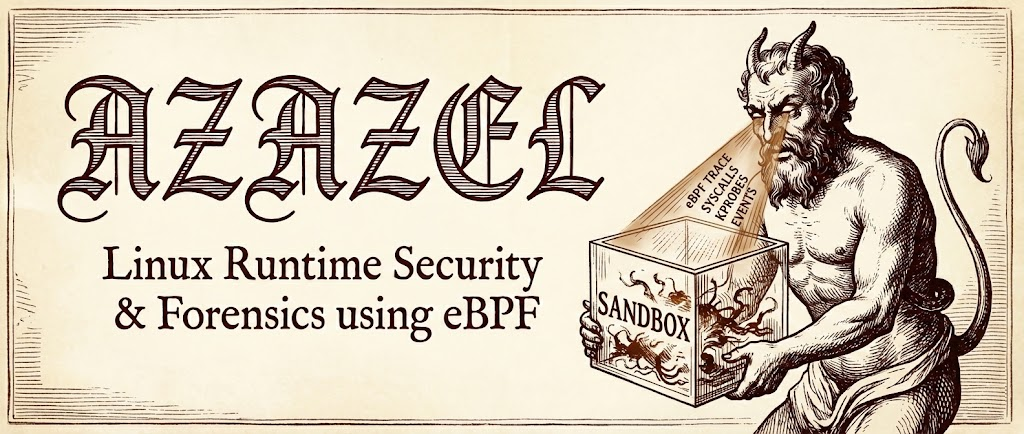
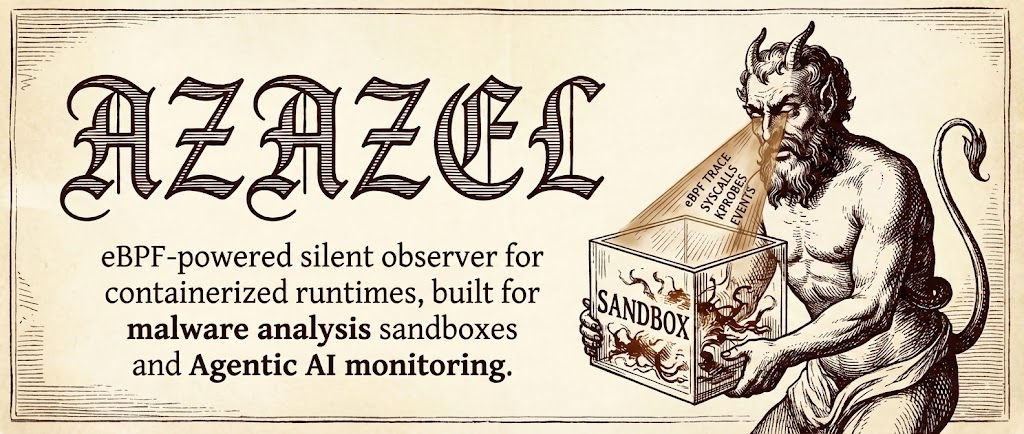
Feat: Improve README.md

diff --git a/README.md b/README.md
@@ -9,12 +9,18 @@
 
 # Azazel
 
+*eBPF-powered silent observer for containerized runtimes, built for malware analysis sandboxes and Agentic AI monitoring.*
+
 ****
 
-A lightweight eBPF-based runtime security tracer purpose-built for **malware analysis sandboxes**. Drop a sample into an isolated container, and Azazel captures every syscall, file touch, network connection, and suspicious behavior — then hands you a clean JSON stream of everything that happened.
+Azazel attaches to any running Docker container and captures every syscall, file access, network connection, and process event — in real time, with zero overhead on the target. No code injection. No agents inside the container. No restarts.
 
-Designed from scratch for sandbox forensics rather than general-purpose runtime security.
+**Two use cases, one tool:**
 
+- **Malware analysis**: drop a sample into an isolated container, let Azazel watch every move it makes, get a full forensic report
+- **Agentic AI monitoring**: attach to any AI agent container and observe what it *actually* does at runtime, not what it claims to do: which files it touches, which processes it spawns, which endpoints it calls
+
+In both cases, the target never knows it's being observed.
 ---
 
 ## Architecture
@@ -30,14 +36,16 @@ Designed from scratch for sandbox forensics rather than general-purpose runtime 
 | **Network** | `net_connect`, `net_bind`, `net_listen`, `net_accept`, `net_sendto`, `net_dns` | IPv4/IPv6 addresses, ports, DNS detection via kprobe on `udp_sendmsg` |
 | **Security** | `mmap_exec`, `ptrace`, `module_load` | W+X memory mappings, process injection attempts, kernel module loading |
 
-**19 hook points** total — tracepoints on syscall entry + a kprobe for DNS detection.
+**19 hook points** total tracepoints on syscall entry and kprobe for DNS detection.
 
 ---
 
 ## Why Azazel?
 
-- **Sandbox-first** — built to trace isolated containers, with cgroup-based filtering to capture only the malware you're analyzing
-- **Zero dependencies at runtime** — single static Go binary, no agents or daemons
+Whether you're analyzing malware or an AI agent, the question is the same: *what is this thing really doing inside that container?*
+
+- **Attach-first** — latches onto a running container via cgroup-based filtering, no restarts, no instrumentation inside the target
+- **Zero footprint** — single static Go binary runs outside the container; the target never knows it's being observed
 - **CO-RE** — Compile Once, Run Everywhere via BTF and `vmlinux.h`, works across kernel versions without recompilation
 - **JSON-native** — NDJSON output (one event per line) ready for `jq`, Elasticsearch, Splunk, or your own pipeline
 - **Built-in heuristics** — automatic alerts for exec from `/tmp`, sensitive file access (`/etc/shadow`, `/proc/self/mem`), ptrace, W+X mmap, and kernel module loading
@@ -105,6 +113,50 @@ make test
 ```
 
 This builds the binary, starts the tracer, runs a malware behavior simulator, then validates that all expected event types were captured.
+
+---
+
+## Use cases
+
+### Malware analysis sandbox
+
+Drop a sample into an isolated container and get full kernel-level visibility of its behavior: what files it touches, what processes it spawns, where it connects, whether it attempts injection or privilege escalation.
+
+```bash
+# Start the sandbox
+docker compose up -d
+
+# Copy a sample into the sandbox container
+docker cp ./samples/malware.elf sandbox:/tmp/sample
+
+# Attach Azazel to the sandbox
+sudo ./bin/azazel --container sandbox --output events.json
+
+# Execute the sample
+docker exec sandbox /tmp/sample
+
+# Inspect the trace
+cat output/events.json | jq .
+```
+
+### Agentic AI monitoring
+
+AI agents are increasingly autonomous — they call tools, spawn subprocesses, read files, hit external APIs. Azazel gives you ground-truth observability at the kernel level, independent of what the agent logs or reports.
+
+```bash
+# Attach to your running AI agent container
+sudo ./bin/azazel --container <agent_container_id> --output agent_trace.json --pretty
+
+# Stream events live and filter by type
+sudo ./bin/azazel --container <agent_container_id> --stdout | jq 'select(.event_type == "net_connect")'
+```
+
+You can filter in real time to answer questions like:
+- Which external hosts is the agent connecting to?
+- Is it reading files outside its expected working directory?
+- Is it spawning unexpected subprocesses?
+- Is there any attempt to access sensitive system paths?
+
 
 ---
 
@@ -224,33 +276,6 @@ Flags:
   -v, --verbose             Verbose logging
       --no-summary          Disable summary on exit
   -h, --help                Help
-```
-
----
-
-### Project structure
-
-```
-azazel/
-├── main.go                          # Entry point
-├── cmd/root.go                      # CLI (cobra)
-├── bpf/tracer.bpf.c                 # All eBPF programs (single file)
-├── internal/
-│   ├── tracer/
-│   │   ├── tracer.go                # Core: load, attach, read ring buffer
-│   │   └── events.go                # Event types, structs, parsing
-│   ├── container/
-│   │   └── resolver.go              # cgroup → container ID resolution
-│   └── output/
-│       └── writer.go                # JSON output + heuristic alerts
-├── test/
-│   ├── simulate_malware.sh          # Malware behavior simulator
-│   └── run_tests.sh                 # Automated test suite
-├── Dockerfile                       # Production multi-stage build
-├── Dockerfile.dev                   # Dev container with build deps
-├── docker-compose.yml               # Full sandbox environment
-├── analyze.sh                       # Automated analysis script
-└── Makefile                         # Build system
 ```
 
 ---
